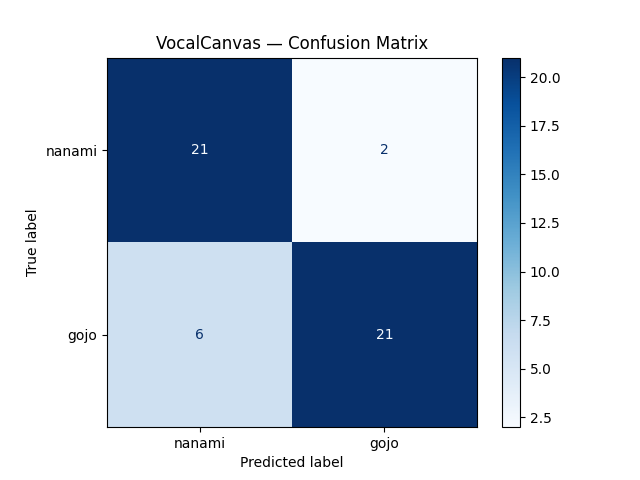
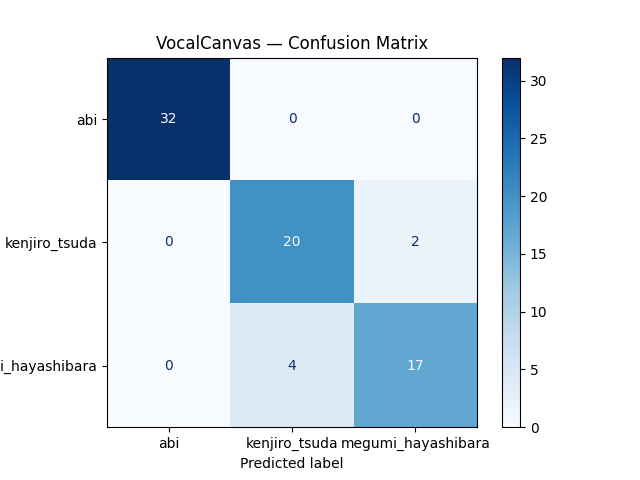
CNNs. spectogram not images

diff --git a/preprocess.py b/preprocess.py
@@ -184,23 +184,7 @@ CHUNK_DURATION = 3
 SAMPLE_RATE = 22050
 N_MELS = 128
 
-# I dont need to understand this.
-def convert_to_wav(speaker_name):
-    input_path = os.path.join(VOICES_DIR, speaker_name, "full_length.webm")
-    output_path = os.path.join(VOICES_DIR, speaker_name, "full_length.wav")
-    if os.path.exists(output_path):
-        print(f"  WAV already exists for {speaker_name}, skipping")
-        return output_path
-    print(f"  Converting {speaker_name} to wav...")
-    subprocess.run([
-        "ffmpeg", "-i", input_path,
-        "-ar", str(SAMPLE_RATE),
-        "-ac", "1",
-        output_path
-    ], check=True)
-    return output_path
-
-
+# I need to understand what is augmentation this.
 def augment_audio(chunk, sr):
     augmented = [chunk]
     augmented.append(librosa.effects.pitch_shift(chunk, sr=sr, n_steps=2))
@@ -214,60 +198,122 @@ def augment_audio(chunk, sr):
 def chunk_to_spectrogram(chunk):
     mel = librosa.feature.melspectrogram(y=chunk, sr=SAMPLE_RATE, n_mels=N_MELS)
     mel_db = librosa.power_to_db(mel, ref=np.max)
-    mel_norm = (mel_db - mel_db.min()) / (mel_db.max() - mel_db.min())
+    # mel_norm = (mel_db - mel_db.min()) / (mel_db.max() - mel_db.min())
+    denom = mel_db.max() - mel_db.min()
+
+    if denom == 0:
+        mel_norm = np.zeros_like(mel_db)
+    else:
+        mel_norm = (mel_db - mel_db.min()) / denom
     return mel_norm
 
 def process_speaker(speaker_name):
     print(f"\nProcessing {speaker_name}...")
-    wav_path = convert_to_wav(speaker_name)
 
-    print(f"  Loading audio...")
-    audio, sr = librosa.load(wav_path, sr=SAMPLE_RATE)
+    speaker_dir = os.path.join("voices", speaker_name)
 
-    chunk_samples = CHUNK_DURATION * SAMPLE_RATE
-    chunks = [audio[i:i+chunk_samples]
-              for i in range(0, len(audio) - chunk_samples, chunk_samples)]
+    # Get all wav files
+    wav_files = sorted([
+        f for f in os.listdir(speaker_dir)
+        if f.endswith(".wav")
+    ])
 
-    # Filter silent chunks
-    chunks = [c for c in chunks if np.max(np.abs(c)) >= 0.01]
-    print(f"  Valid chunks: {len(chunks)}")
+    if not wav_files:
+        print("  No wav files found")
+        return
 
-    # Split indices BEFORE augmentation
-    indices = list(range(len(chunks)))
-    train_idx, temp_idx = train_test_split(indices, test_size=0.30, random_state=42)
-    val_idx, test_idx = train_test_split(temp_idx, test_size=0.50, random_state=42)
+    all_chunks = []
+
+    # Load every wav file
+    for wav_file in wav_files:
+        wav_path = os.path.join(speaker_dir, wav_file)
+
+        print(f"  Loading {wav_file}...")
+        audio, sr = librosa.load(wav_path, sr=SAMPLE_RATE)
+
+        chunk_samples = CHUNK_DURATION * SAMPLE_RATE
+
+        chunks = [
+            audio[i:i+chunk_samples]
+            for i in range(0, len(audio) - chunk_samples, chunk_samples)
+        ]
+
+        # Remove silent chunks
+        chunks = [c for c in chunks if np.max(np.abs(c)) >= 0.01]
+
+        all_chunks.extend(chunks)
+
+    print(f"  Total valid chunks: {len(all_chunks)}")
+
+    # Split BEFORE augmentation
+    indices = list(range(len(all_chunks)))
+
+    train_idx, temp_idx = train_test_split(
+        indices,
+        test_size=0.30,
+        random_state=42
+    )
+
+    val_idx, test_idx = train_test_split(
+        temp_idx,
+        test_size=0.50,
+        random_state=42
+    )
 
     counts = {"train": 0, "val": 0, "test": 0}
 
-    for split_name, split_indices in [("train", train_idx), ("val", val_idx), ("test", test_idx)]:
-        out_dir = os.path.join(OUTPUT_DIR, split_name, speaker_name)
+    for split_name, split_indices in [
+        ("train", train_idx),
+        ("val", val_idx),
+        ("test", test_idx)
+    ]:
+
+        out_dir = os.path.join(
+            OUTPUT_DIR,
+            split_name,
+            speaker_name
+        )
+
         os.makedirs(out_dir, exist_ok=True)
 
         for idx in split_indices:
-            chunk = chunks[idx]
+            chunk = all_chunks[idx]
 
             if split_name == "train":
                 versions = augment_audio(chunk, sr)
             else:
-                versions = [chunk]  # only original for val/test
+                versions = [chunk]
 
             for aug_idx, aug_chunk in enumerate(versions):
+
                 aug_chunk = aug_chunk[:chunk_samples]
+
                 if len(aug_chunk) < chunk_samples:
                     continue
+
                 spec = chunk_to_spectrogram(aug_chunk)
-                out_path = os.path.join(out_dir, f"chunk_{idx:04d}_aug{aug_idx}.npy")
+
+                out_path = os.path.join(
+                    out_dir,
+                    f"chunk_{idx:05d}_aug{aug_idx}.npy"
+                )
+
                 np.save(out_path, spec)
+
                 counts[split_name] += 1
 
-    print(f"  Train: {counts['train']} | Val: {counts['val']} | Test: {counts['test']}")
+    print(
+        f"  Train: {counts['train']} | "
+        f"Val: {counts['val']} | "
+        f"Test: {counts['test']}"
+    )
 
 # Clear old spectrograms
 if os.path.exists(OUTPUT_DIR):
     shutil.rmtree(OUTPUT_DIR)
     print("Cleared old spectrograms")
 
-for speaker in ["nanami", "gojo"]:
+for speaker in ["abi", "kenjiro_tsuda", "megumi_hayashibara"]:
     process_speaker(speaker)
 
-print("\nPreprocessing complete!")
+print("\nPreprocessing complete!") 

diff --git a/downloadAudio.py b/downloadAudio.py
@@ -2,9 +2,19 @@ import yt_dlp
 import os
 
 downloads = [
-    {"url": "https://youtu.be/fOpM_qtgJlM?si=Q-t78DE0tRj3mO_B", "name": "yuichi_nakamura"},
-    # {"url": "https://youtu.be/TJPGuy-vO6Q?si=I3gb5dBzakpP5iiT", "name": "gojo"},
-]
+    # 1st
+    # {"url": "https://youtu.be/vASaBrY5PMg?si=1IXcWDE06BWwhkfV", "name": "kenjiro_tsuda"},
+    # 2nd
+    # {"url": "https://youtu.be/X2V4p-R4Qfo?si=uqvO7o_VK3gpGjfF", "name": "kenjiro_tsuda"},
+    {"url": "https://youtu.be/zD3vxXyvOQk?si=RHfrcqZpCfEW2Auy", "name": "kenjiro_tsuda"},
+
+    
+    # {"url": "https://youtu.be/aH_irEzBOOI?si=56DkgTUatNgbqQPm", "name": "megumi_hayashibara"},
+    # {"url": "https://youtu.be/iR3sfo-KtoI?si=VRRZGFbDsKipS_5k", "name": "megumi_hayashibara"},
+
+
+    # {"url": "https://youtu.be/c2FalYYVDaQ?si=IB_wLnjiuzO-lONP", "name": "abi"}
+   ]
 
 for item in downloads:
     folder = f"voices/{item['name']}"
@@ -13,6 +23,11 @@ for item in downloads:
     ydl_opts = {
         'format': 'bestaudio/best',
         'outtmpl': f'{folder}/%(title)s.%(ext)s',
+        'postprocessors': [{
+            'key': 'FFmpegExtractAudio',
+            'preferredcodec': 'wav',
+            'preferredquality': '192',
+        }],
     }
     
     with yt_dlp.YoutubeDL(ydl_opts) as ydl:

diff --git a/predict.py b/predict.py
@@ -7,7 +7,7 @@ import subprocess
 
 # Config
 MODEL_PATH = "models/vocalcanvas_sanity.keras"
-SPEAKERS = ["Kenjiro Tsuda", "Yuichi Nakamura"]
+SPEAKERS = ["abi", "kenjiro_tsuda", "megumi_hayashibara"]
 CHUNK_DURATION = 3
 SAMPLE_RATE = 22050
 N_MELS = 128
@@ -43,7 +43,12 @@ def predict_file(audio_path, model):
 
     print(f"\nLoading audio: {audio_path}")
     audio, sr = librosa.load(audio_path, sr=SAMPLE_RATE)
-    audio = audio / (np.max(np.abs(audio)) + 1e-9)
+    # Boost quiet audio
+    max_amp = np.max(np.abs(audio))
+    if max_amp < 0.1:  # if audio is very quiet
+        audio = audio / (max_amp + 1e-9)  # normalize to full volume
+        print("  (Audio boosted — original was very quiet)")
+    # audio = audio / (np.max(np.abs(audio)) + 1e-9)
 
     chunk_samples = CHUNK_DURATION * SAMPLE_RATE
     chunks = [audio[i:i+chunk_samples]
@@ -55,9 +60,12 @@ def predict_file(audio_path, model):
     confidences = []
 
     for idx, chunk in enumerate(chunks):
-        if np.max(np.abs(chunk)) < 0.01:
+    # Skip silent chunks
+        if np.max(np.abs(chunk)) < 0.02:
+            print(f"  Chunk {idx:03d}: SKIPPED (silence)")
             continue
-
+    
+    # rest of your existing code below...
         spec = audio_to_spectrogram(chunk)
         spec = spec[np.newaxis, ..., np.newaxis]
 

diff --git a/train.py b/train.py
@@ -151,7 +151,7 @@ from tensorflow.keras import layers, models, Input
 
 # Config
 SPECTROGRAMS_DIR = "spectrograms"
-SPEAKERS = ["nanami", "gojo"]
+SPEAKERS = ["abi", "kenjiro_tsuda", "megumi_hayashibara"]
 MODEL_SAVE_PATH = "models/vocalcanvas_sanity.keras"
 os.makedirs("models", exist_ok=True)
 